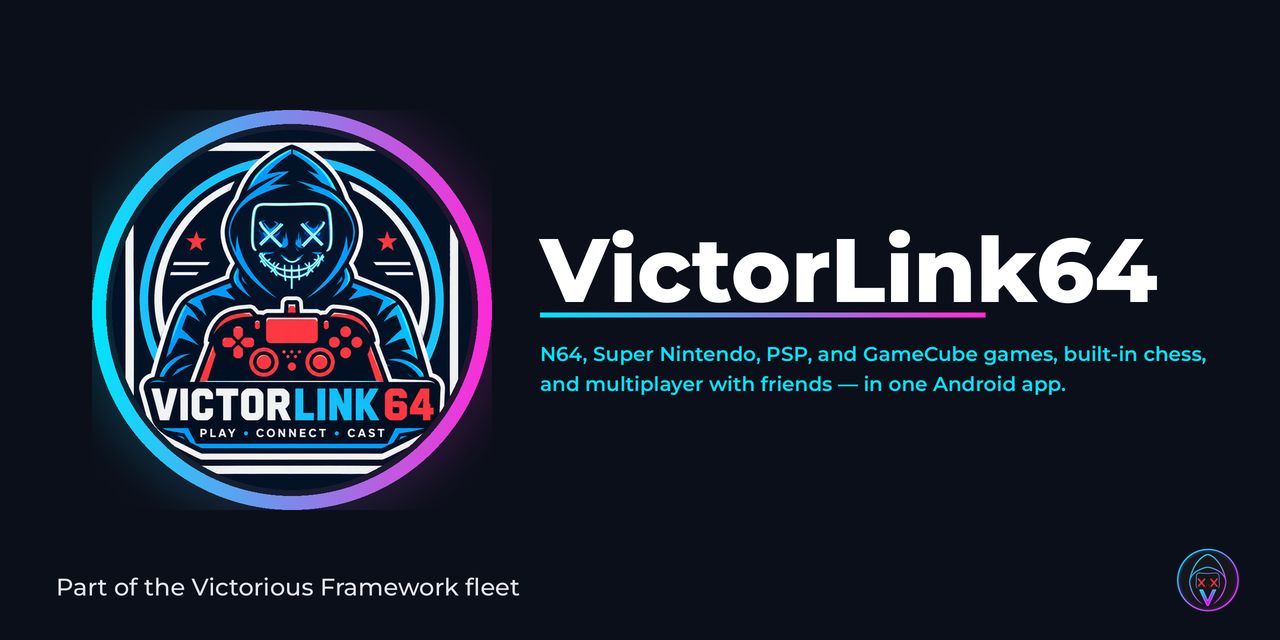
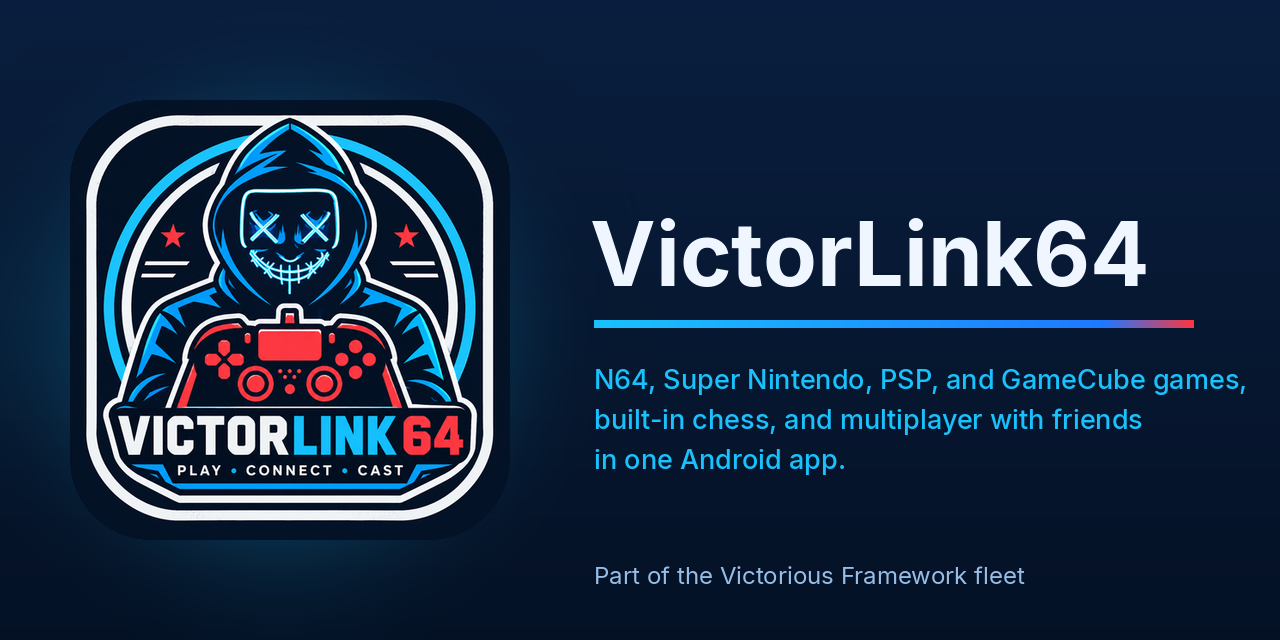
docs: use VictorLink64 brand colors; add Coming soon section
Regenerate banner (navy, cyan-blue, red accent) via scripts/gen_readme_banner.py,
recolor badges, drop the unused fleet-colored hooded-V mark, and add a plain-language
Coming soon roadmap (nothing claimed as done).

Victorious

diff --git a/scripts/gen_readme_banner.py b/scripts/gen_readme_banner.py
@@ -1,0 +1,80 @@
+#!/usr/bin/env python3
+"""Regenerates docs/assets/banner.png (1280x640) in VictorLink64's own brand colours.
+
+Brand palette, sampled from assets/logo.png: navy, cyan-blue, and red (red is an accent only).
+Run from the repository root: python3 scripts/gen_readme_banner.py
+
+Victorious Framework
+"""
+from PIL import Image, ImageDraw, ImageFilter, ImageFont
+
+W, H = 1280, 640
+NAVY = (4, 17, 37)
+NAVY_LIGHT = (9, 30, 62)
+CYAN_BLUE = (25, 194, 252)
+BLUE = (30, 120, 255)
+RED = (252, 54, 64)
+WHITE = (240, 246, 255)
+MUTED = (150, 190, 230)
+FONT_DIR = '/usr/share/fonts/truetype/macos/'
+
+
+def font(name, size):
+    return ImageFont.truetype(FONT_DIR + name, size)
+
+
+def vertical_gradient(size, top, bottom):
+    w, h = size
+    col = Image.new('RGB', (1, h))
+    for y in range(h):
+        t = y / (h - 1)
+        col.putpixel((0, y), tuple(round(top[i] + (bottom[i] - top[i]) * t) for i in range(3)))
+    return col.resize((w, h))
+
+
+def horizontal_bar(width, height, stops):
+    bar = Image.new('RGB', (width, height))
+    px = bar.load()
+    for x in range(width):
+        t = x / max(1, width - 1)
+        for (t0, c0), (t1, c1) in zip(stops, stops[1:]):
+            if t0 <= t <= t1:
+                k = (t - t0) / (t1 - t0)
+                color = tuple(round(c0[i] + (c1[i] - c0[i]) * k) for i in range(3))
+                break
+        for y in range(height):
+            px[x, y] = color
+    return bar
+
+
+def main():
+    img = vertical_gradient((W, H), NAVY_LIGHT, NAVY).convert('RGBA')
+
+    glow = Image.new('RGBA', (W, H), (0, 0, 0, 0))
+    ImageDraw.Draw(glow).ellipse([20, 70, 540, 590], fill=CYAN_BLUE + (70,))
+    img.alpha_composite(glow.filter(ImageFilter.GaussianBlur(70)))
+
+    logo = Image.open('assets/logo.png').convert('RGBA').resize((440, 440), Image.LANCZOS)
+    mask = Image.new('L', logo.size, 0)
+    ImageDraw.Draw(mask).rounded_rectangle([0, 0, 439, 439], radius=80, fill=255)
+    img.paste(logo, (70, 100), mask)
+
+    d = ImageDraw.Draw(img)
+    x0 = 590
+    d.text((x0, 200), 'VictorLink64', font=font('Inter-Bold.ttf', 88), fill=WHITE)
+
+    bar = horizontal_bar(600, 8, [(0, CYAN_BLUE), (0.85, BLUE), (1, RED)])
+    img.paste(bar, (x0 + 4, 320))
+
+    tag = font('Inter-Medium.ttf', 27)
+    d.text((x0 + 4, 362), 'N64, Super Nintendo, PSP, and GameCube games,', font=tag, fill=CYAN_BLUE)
+    d.text((x0 + 4, 402), 'built-in chess, and multiplayer with friends', font=tag, fill=CYAN_BLUE)
+    d.text((x0 + 4, 442), 'in one Android app.', font=tag, fill=CYAN_BLUE)
+
+    d.text((x0 + 4, 560), 'Part of the Victorious Framework fleet', font=font('Inter-Regular.ttf', 24), fill=MUTED)
+
+    img.convert('RGB').save('docs/assets/banner.png', optimize=True)
+
+
+if __name__ == '__main__':
+    main()

diff --git a/README.md b/README.md
@@ -9,10 +9,11 @@
 Works on its own; fleet integration (droidcommand-AI) is optional
 
 <p>
-  <a href="https://github.com/Victorious93/VictorLink64/releases"><img src="https://img.shields.io/github/v/release/Victorious93/VictorLink64?include_prereleases&style=flat-square&label=Release&labelColor=0B0F1A&color=00E5FF" alt="Latest release" /></a>
-  <a href="gpl-license"><img src="https://img.shields.io/badge/License-GPL--3.0-FF2BD6?style=flat-square&labelColor=0B0F1A" alt="License: GPL-3.0" /></a>
-  <a href="https://github.com/Victorious93/VictorLink64/actions/workflows/build.yml"><img src="https://img.shields.io/github/actions/workflow/status/Victorious93/VictorLink64/build.yml?style=flat-square&label=CI&labelColor=0B0F1A&color=00E5FF" alt="CI" /></a>
-  <a href="https://victorious-framework.pages.dev"><img src="https://img.shields.io/badge/Fleet-Victorious_Framework-FF2BD6?style=flat-square&labelColor=0B0F1A" alt="Victorious Framework fleet" /></a>
+  <a href="https://github.com/Victorious93/VictorLink64/releases"><img src="https://img.shields.io/github/v/release/Victorious93/VictorLink64?include_prereleases&style=flat-square&label=Release&labelColor=041125&color=19C2FC" alt="Latest release" /></a>
+  <a href="gpl-license"><img src="https://img.shields.io/badge/License-GPL--3.0-1E78FF?style=flat-square&labelColor=041125" alt="License: GPL-3.0" /></a>
+  <a href="https://github.com/Victorious93/VictorLink64/actions/workflows/build.yml"><img src="https://img.shields.io/github/actions/workflow/status/Victorious93/VictorLink64/build.yml?style=flat-square&label=CI&labelColor=041125&color=19C2FC" alt="CI" /></a>
+  <a href="https://victorious-framework.pages.dev"><img src="https://img.shields.io/badge/Fleet-Victorious_Framework-19C2FC?style=flat-square&labelColor=041125" alt="Victorious Framework fleet" /></a>
+  <a href="#coming-soon"><img src="https://img.shields.io/badge/Roadmap-Coming_soon-FC3640?style=flat-square&labelColor=041125" alt="Roadmap: coming soon" /></a>
 </p>
 
 </div>
@@ -30,6 +31,23 @@ Works on its own; fleet integration (droidcommand-AI) is optional
 - **Classic Android check** — a Settings screen that reports whether this phone can run old 32-bit Android apps. It is a diagnostic only; the player for those apps is not built yet.
 
 > **Early beta.** Most features have not yet been tested on many real devices, so expect rough edges. Casting to a TV and online play for console games are not implemented yet; online play currently covers chess and VictorOps Zombies.
+
+## Coming soon
+
+> **These are plans, not finished features.** None of the items below are done yet, and you cannot use them today. The first one is being reviewed by Don; the rest are planned.
+
+| Coming soon | What it means for you | Where it stands |
+| --- | --- | --- |
+| **Top-quality touch controls for every console** | Better on-screen buttons, sticks, and triggers for every console, so playing on a touchscreen feels right. | In review ([PR #29](https://github.com/Victorious93/VictorLink64/pull/29)) — not released |
+| **Sharper graphics, up to 1080p** | Games drawn at up to 1080p, with optional filters and shaders for a different look, plus **Auto Best Settings** that picks good settings for your phone. | Planned |
+| **Optional Shizuku tweaks** | If you already use the Shizuku app, extra phone-level tweaks to help games run better. You will never need it to play. | Planned |
+| **Stream games from your own PC** | Play games from your own computer on your phone over your home network, using Moonlight and Sunshine. | Planned |
+| **Play PC games on your phone** | Run Windows PC games on the phone, in the style of Winlator. | Planned |
+| **Add games in any format** | Open games stored as zip, 7z, rar, iso, cso, chd, rvz, and more, read straight from the file with no unpacking first. | Planned |
+| **Universal APK player** | Run Android APK files without installing them, including old ones. | Planned |
+| **PS2 and PS Vita** | Emulators for PlayStation 2 and PlayStation Vita games. | Planned |
+
+When something here is finished and tested on a real phone, it moves up into **Features** and shows up in a new release. Until then, treat this list as a wish list, not a promise.
 
 ## Screenshots
 
@@ -124,4 +142,4 @@ Upstream trademarks and product names remain their owners'.
 
 **Something doesn't work?** Please [open an issue](https://github.com/Victorious93/VictorLink64/issues) with your phone model and what happened.
 
-<sub>Nintendo 64, Super Nintendo, and GameCube are trademarks of Nintendo. PlayStation Portable (PSP) is a trademark of Sony. VictorLink64 is not affiliated with or endorsed by Nintendo or Sony.</sub>
+<sub>Nintendo 64, Super Nintendo, and GameCube are trademarks of Nintendo. PlayStation Portable (PSP), PlayStation 2, and PlayStation Vita are trademarks of Sony. VictorLink64 is not affiliated with or endorsed by Nintendo or Sony.</sub>
